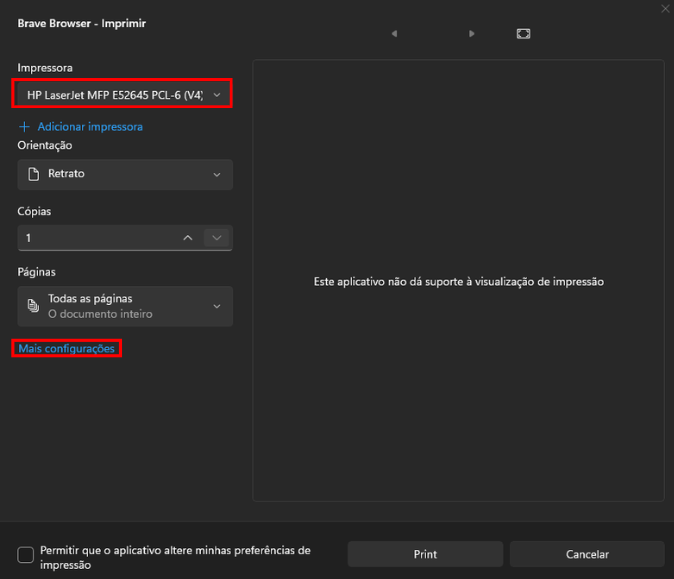
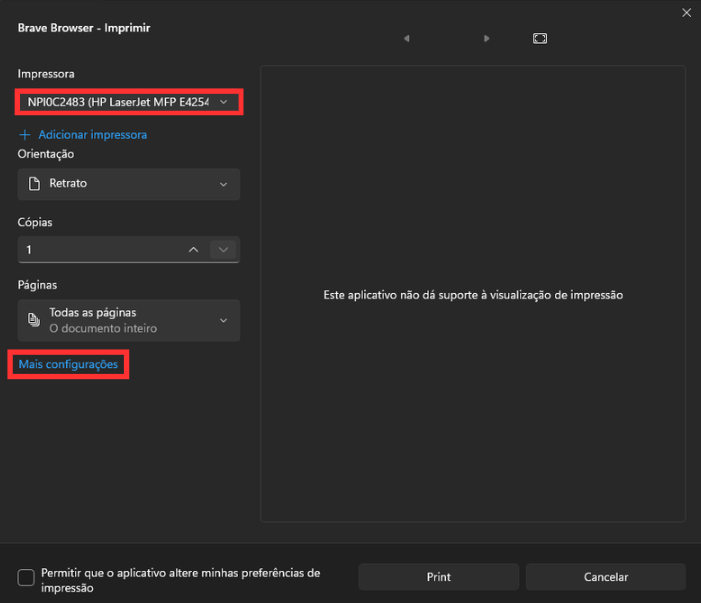
feat: atualiza imagens nos tutoriais de impressão para HP 432 e remove gif obsoleto

diff --git a/tutoriais/impressoras/hp-432.html b/tutoriais/impressoras/hp-432.html
@@ -277,14 +277,14 @@
                         <div class="tutorial-step__body">
                             <h3 class="tutorial-step__title">Qualidade e Finalização</h3>
                             <p>Se o documento tiver imagens muito escuras ou você quiser economizar toner, acesse a aba <strong>Gráficos</strong> para mudar a Qualidade, o Brilho ou ativar o modo de economia. Após ajustar tudo, clique em <strong>OK</strong> nesta janela e, na tela principal, clique em <strong>Print</strong>.</p>
-                            <div class="tutorial-figure-grid">
+                            
                                 <figure class="tutorial-figure">
                                     <img class="tutorial-figure__media" src="../../docs/tutoriais/impressoras/hp-432/impressao/12.gif" alt="Aba gráficos" data-action="open-zoom">
                                 </figure>
                                 <figure class="tutorial-figure">
                                     <img class="tutorial-figure__media" src="../../docs/tutoriais/impressoras/hp-432/impressao/13.png" alt="Confirmando a impressão" data-action="open-zoom">
                                 </figure>
-                            </div>
+                            
                         </div>
                     </section>
 
